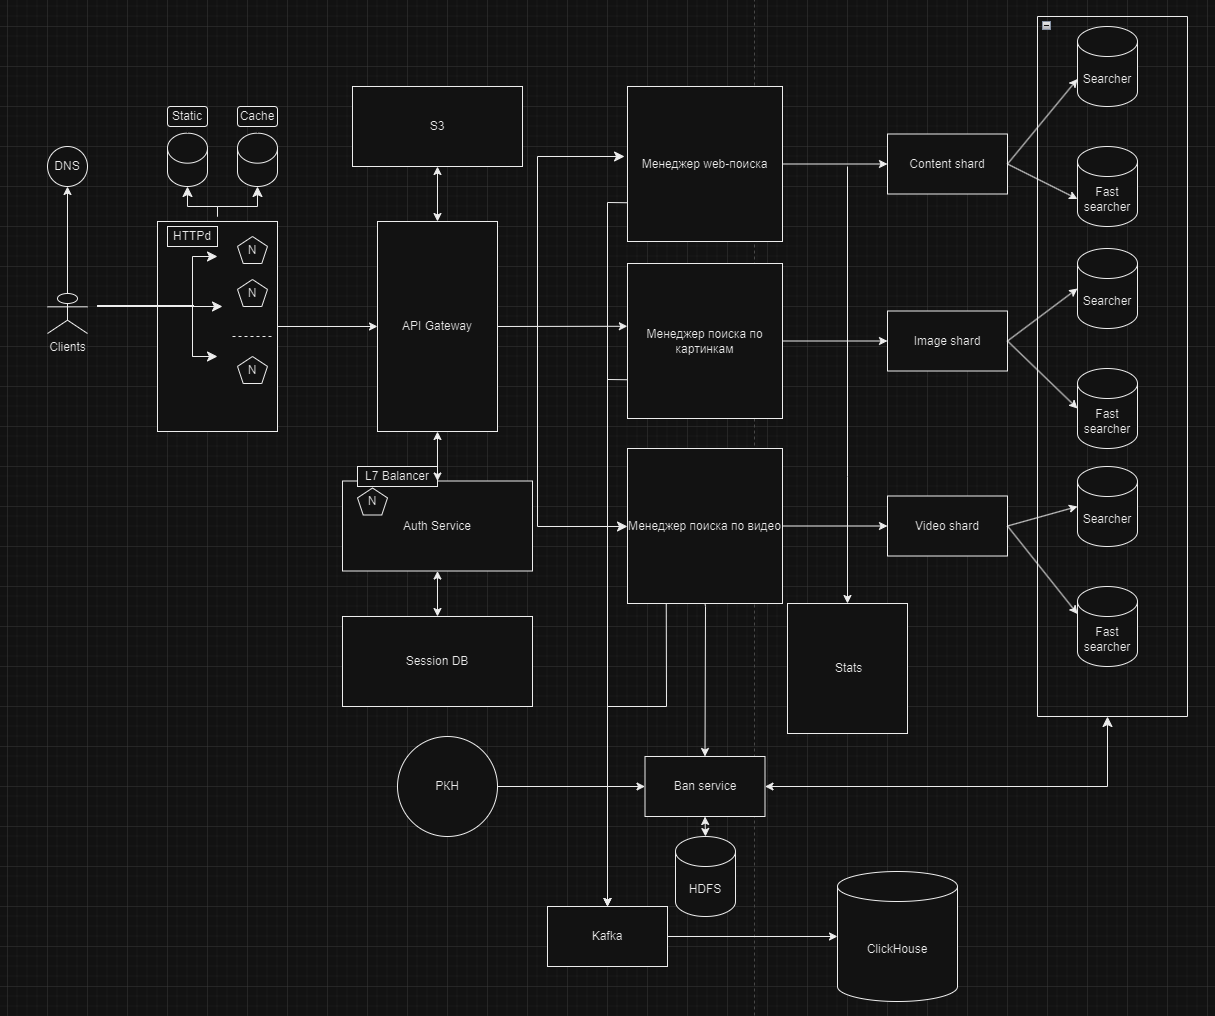
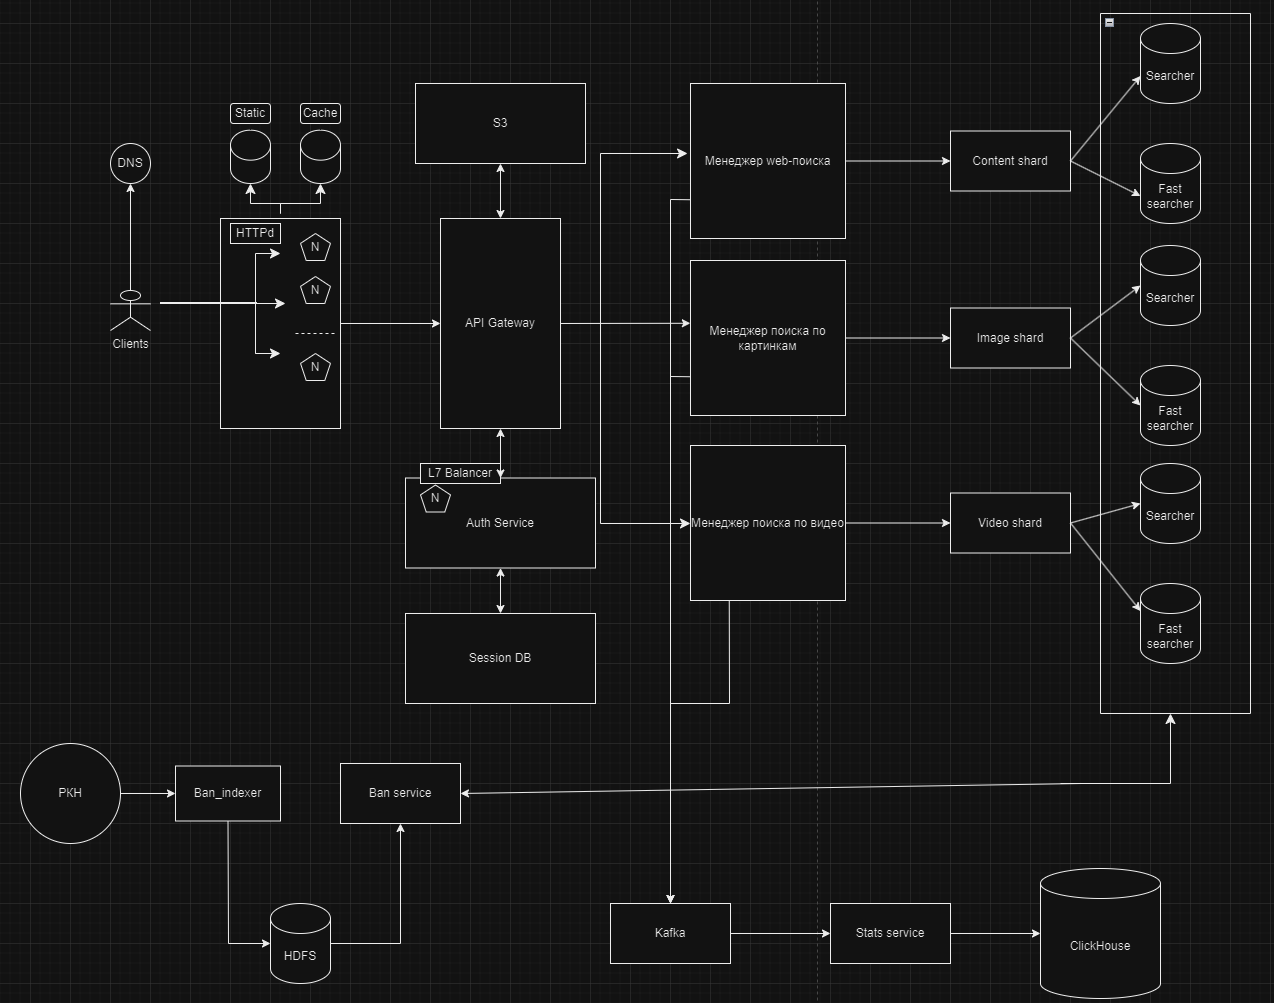
fix

diff --git a/README.md b/README.md
@@ -167,11 +167,9 @@ MAU 65.8 млн человек, DAU 26.6 млн человек
 
 **UsersQuery:** b-tree(id)(P_KEY), hash(user_id), hash(document_id)
 
-**SearchResults:** b-tree(id)(P_KEY), hash(query_id), hash(document_id)
+**SearchResults:** b-tree(id)(P_KEY), hash(query_id)
 
 **Sessions:** b-tree(id)(P_KEY), hash(user_id)
-
-**Images:** b-tree(id)(P_KEY)
 
 ## Денормализация
 - Фотографии пользователей в СУБД могут храниться в виде массива из ссылок в s3
@@ -251,7 +249,7 @@ Grafana - для визуализации графиков, мониторинг
 
 # 9. Схема
 ![Alt text](image-1.png)
-![img.png](img.png)
+![Alt text](image-2.png)
 
 # 10. Обеспечение надежности
 
